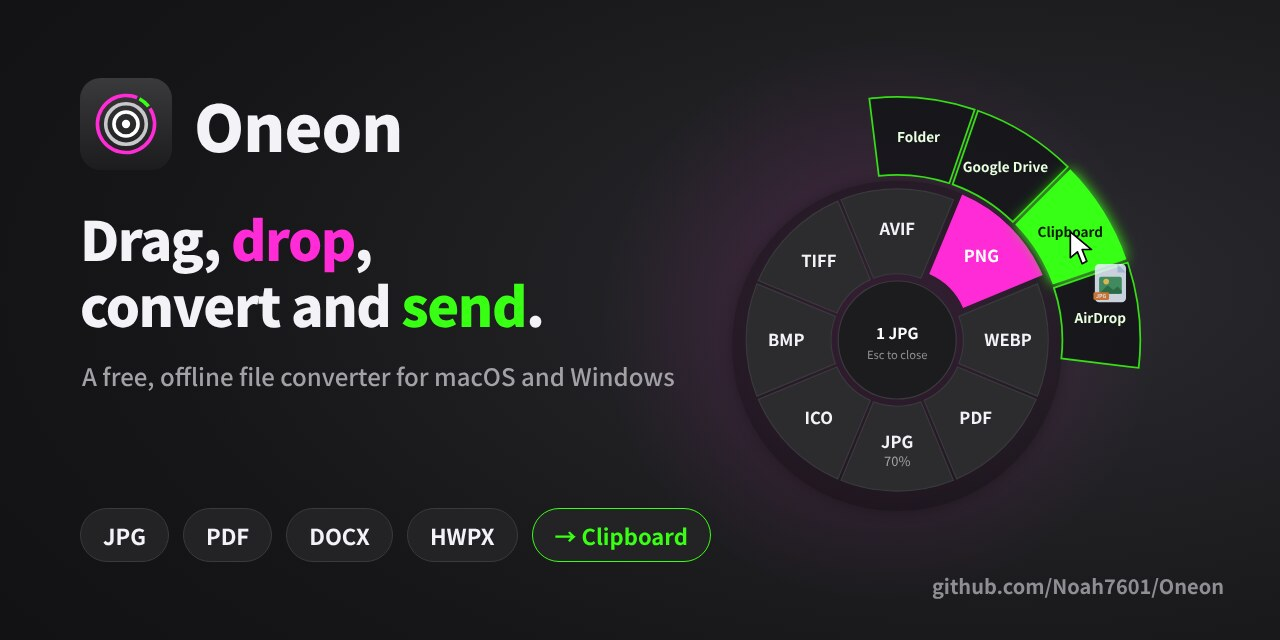
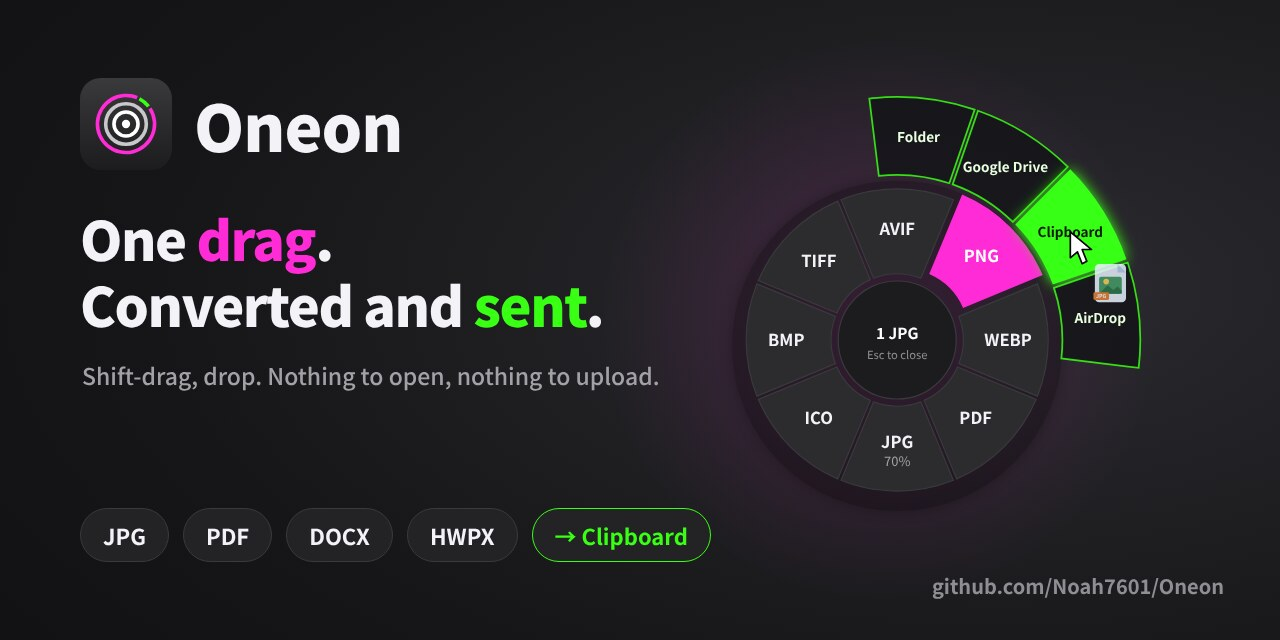
README·배너: 메인 문구를 'One drag. Converted and sent.'로
한 번의 드래그로 변환과 보내기까지 끝난다는 점을 첫 줄과 배너(링크 썸네일)에 맞춤.

Claude-Session: https://claude.ai/code/session_01JF6DziHXaSEV2C6qAqFgxM

Changed region(s): [[0.0625, 0.3438, 0.4688, 0.5312], [0.0625, 0.5625, 0.5312, 0.625]]

diff --git a/docs/media/source/oneon-banner.html b/docs/media/source/oneon-banner.html
@@ -8,7 +8,7 @@ html,body{margin:0}
 .logo span{font-size:64px;font-weight:800;letter-spacing:-1px}
 h1{position:absolute;left:80px;top:205px;margin:0;font-size:54px;line-height:1.22;font-weight:800;letter-spacing:-1.5px;width:640px}
 h1 em{font-style:normal;color:#FF2BD6}h1 b{color:#39FF14;font-weight:800}
-p{position:absolute;left:82px;top:358px;margin:0;font-size:24px;color:#A1A1A6;font-weight:500;width:600px}
+p{position:absolute;left:82px;top:358px;margin:0;font-size:23px;color:#A1A1A6;font-weight:500;width:720px}
 .chips{position:absolute;left:80px;bottom:78px;display:flex;gap:14px}
 .chips i{font-style:normal;font-size:22px;font-weight:700;padding:10px 22px;border-radius:999px;background:#232326;border:1px solid #3A3A3D}
 .chips i.n{border-color:#39FF14;color:#39FF14}
@@ -24,7 +24,7 @@ iframe{position:absolute;border:0;width:960px;height:540px;left:330px;top:62px;t
 </div>
 <script>
 const T={ko:{h:"끌어서 <em>놓으면</em>,<br>변환하고 <b>보내기</b>까지.",p:"macOS · Windows용 무료 오프라인 파일 변환기",c:"→ 클립보드"},
-en:{h:"Drag, <em>drop</em>,<br>convert and <b>send</b>.",p:"A free, offline file converter for macOS and Windows",c:"→ Clipboard"}};
+en:{h:"One <em>drag</em>.<br>Converted and <b>sent</b>.",p:"Shift-drag, drop. Nothing to open, nothing to upload.",c:"→ Clipboard"}};
 const lang=new URLSearchParams(location.search).get("l")||"ko";
 document.getElementById("h").innerHTML=T[lang].h;document.getElementById("p").textContent=T[lang].p;document.getElementById("c").textContent=T[lang].c;
 const f=document.getElementById("f");window.ready=new Promise(r=>{f.onload=()=>r();f.src="oneon-demo.html?banner&t=3.97&l="+lang;});
